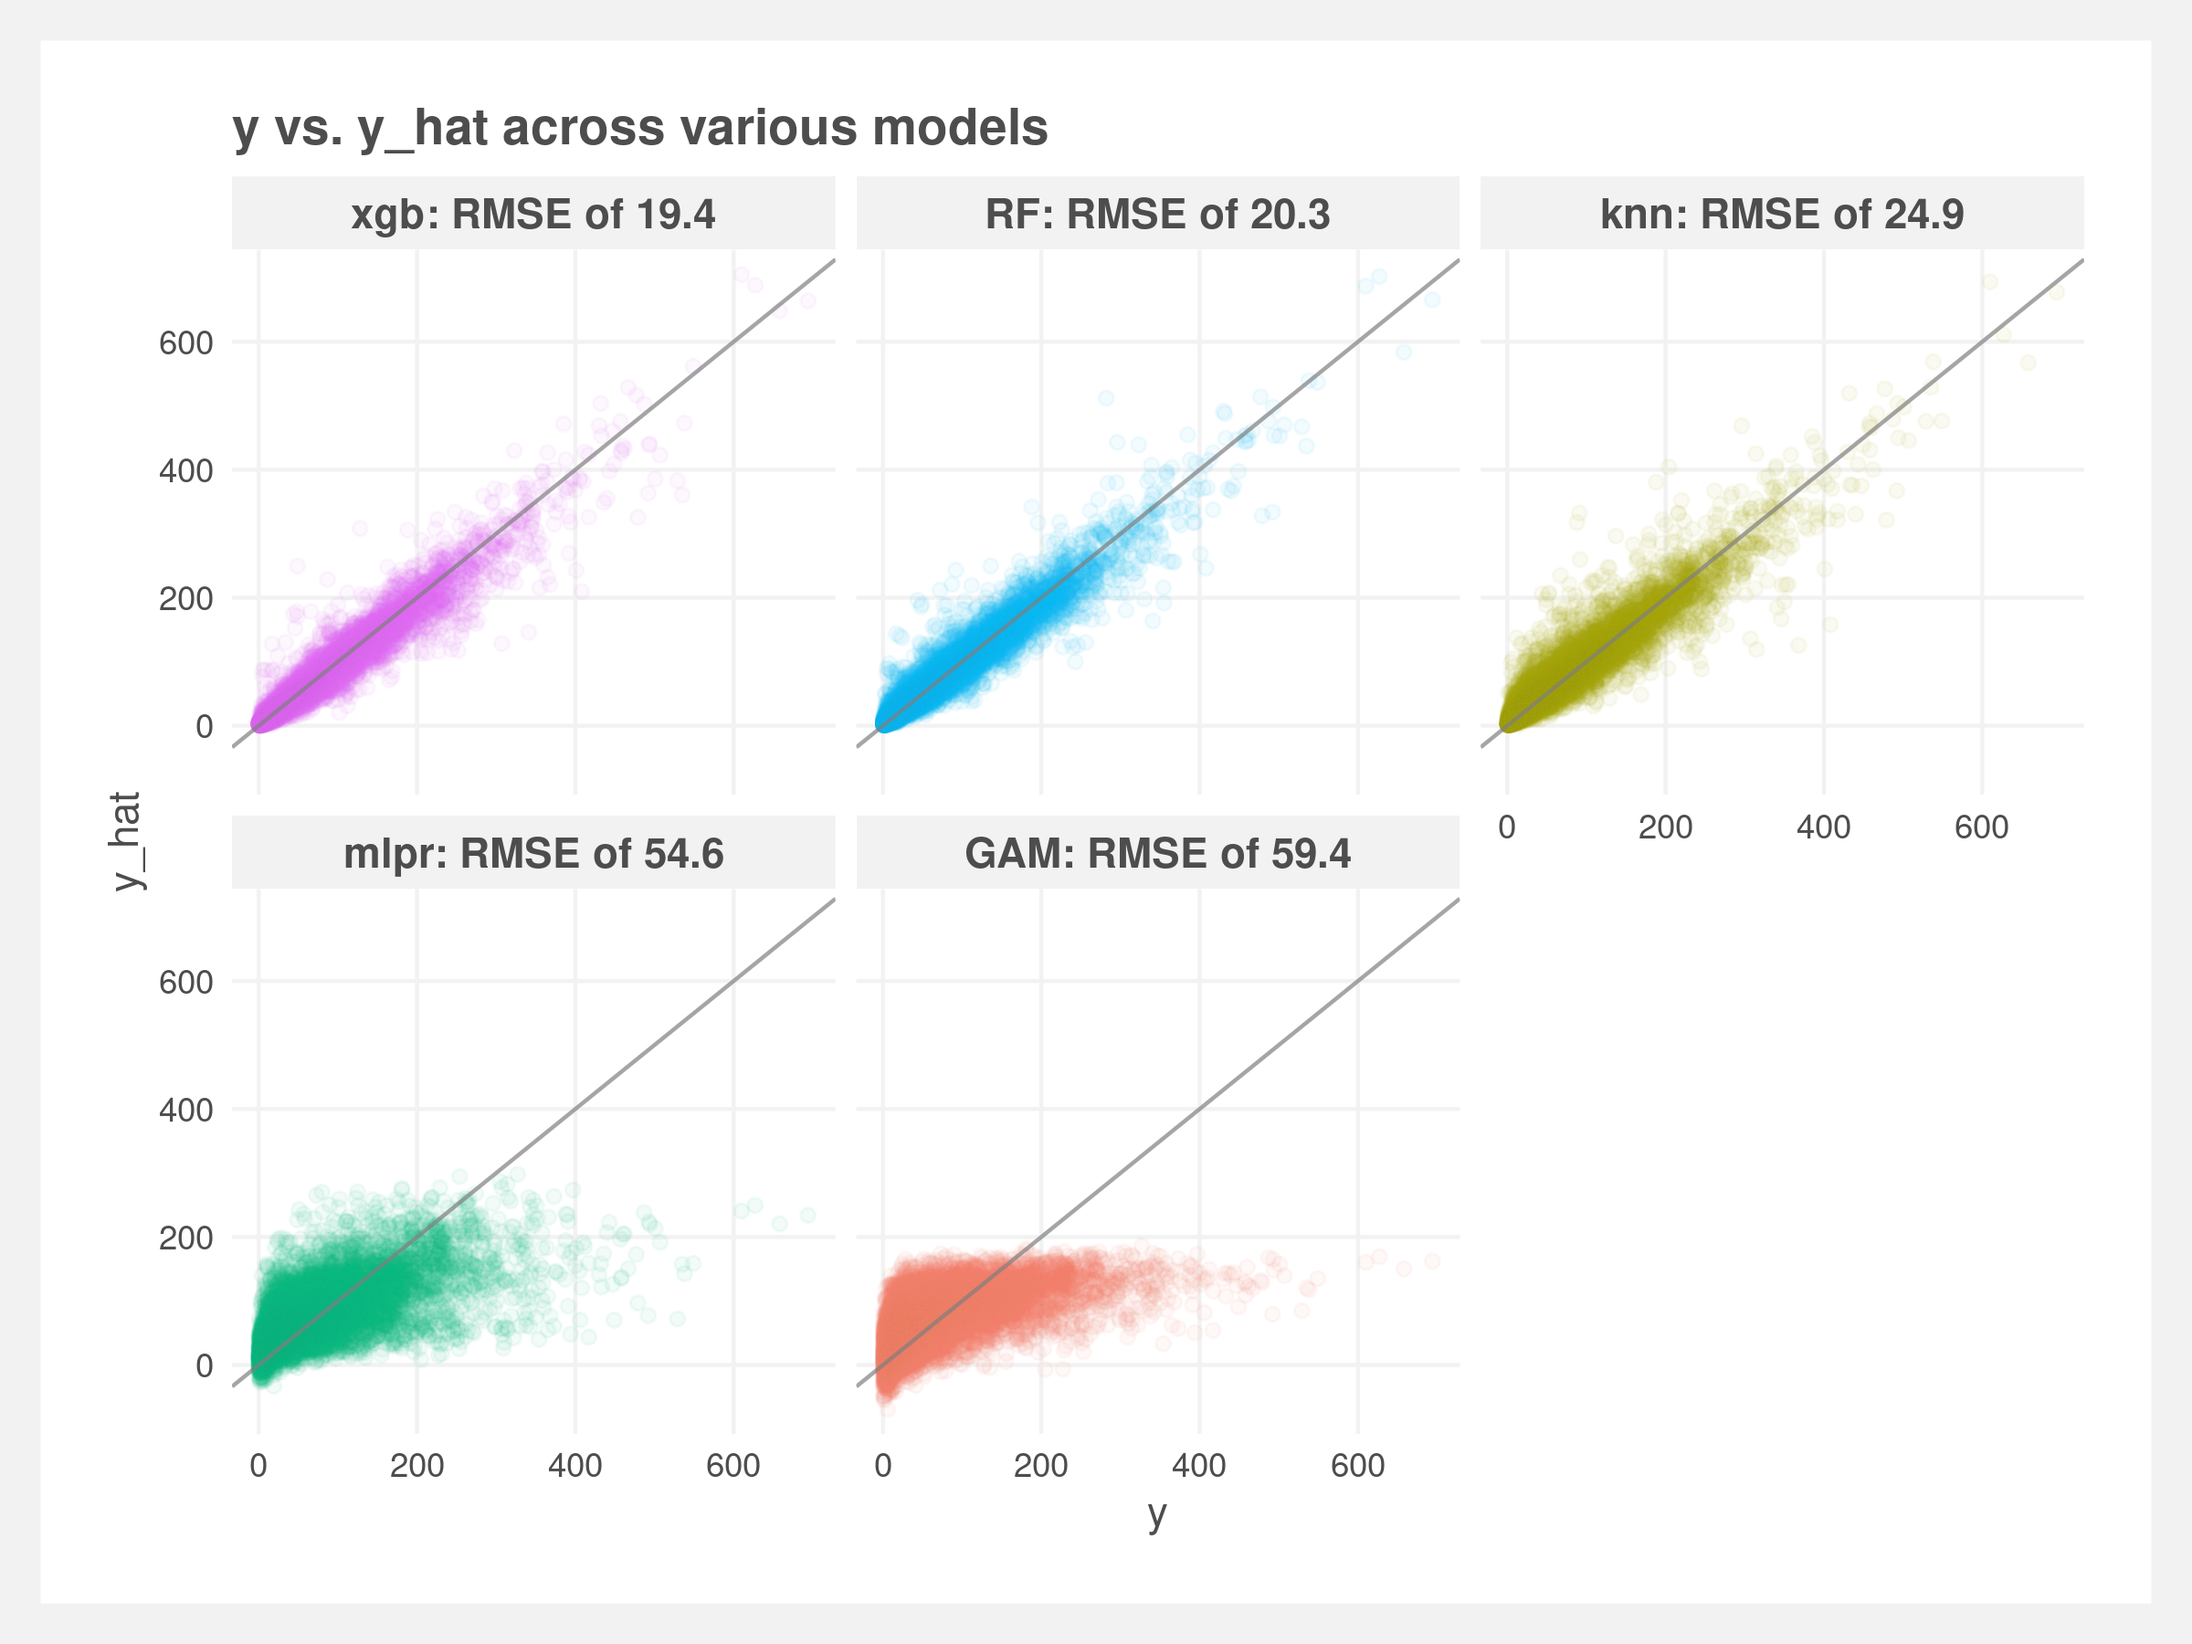
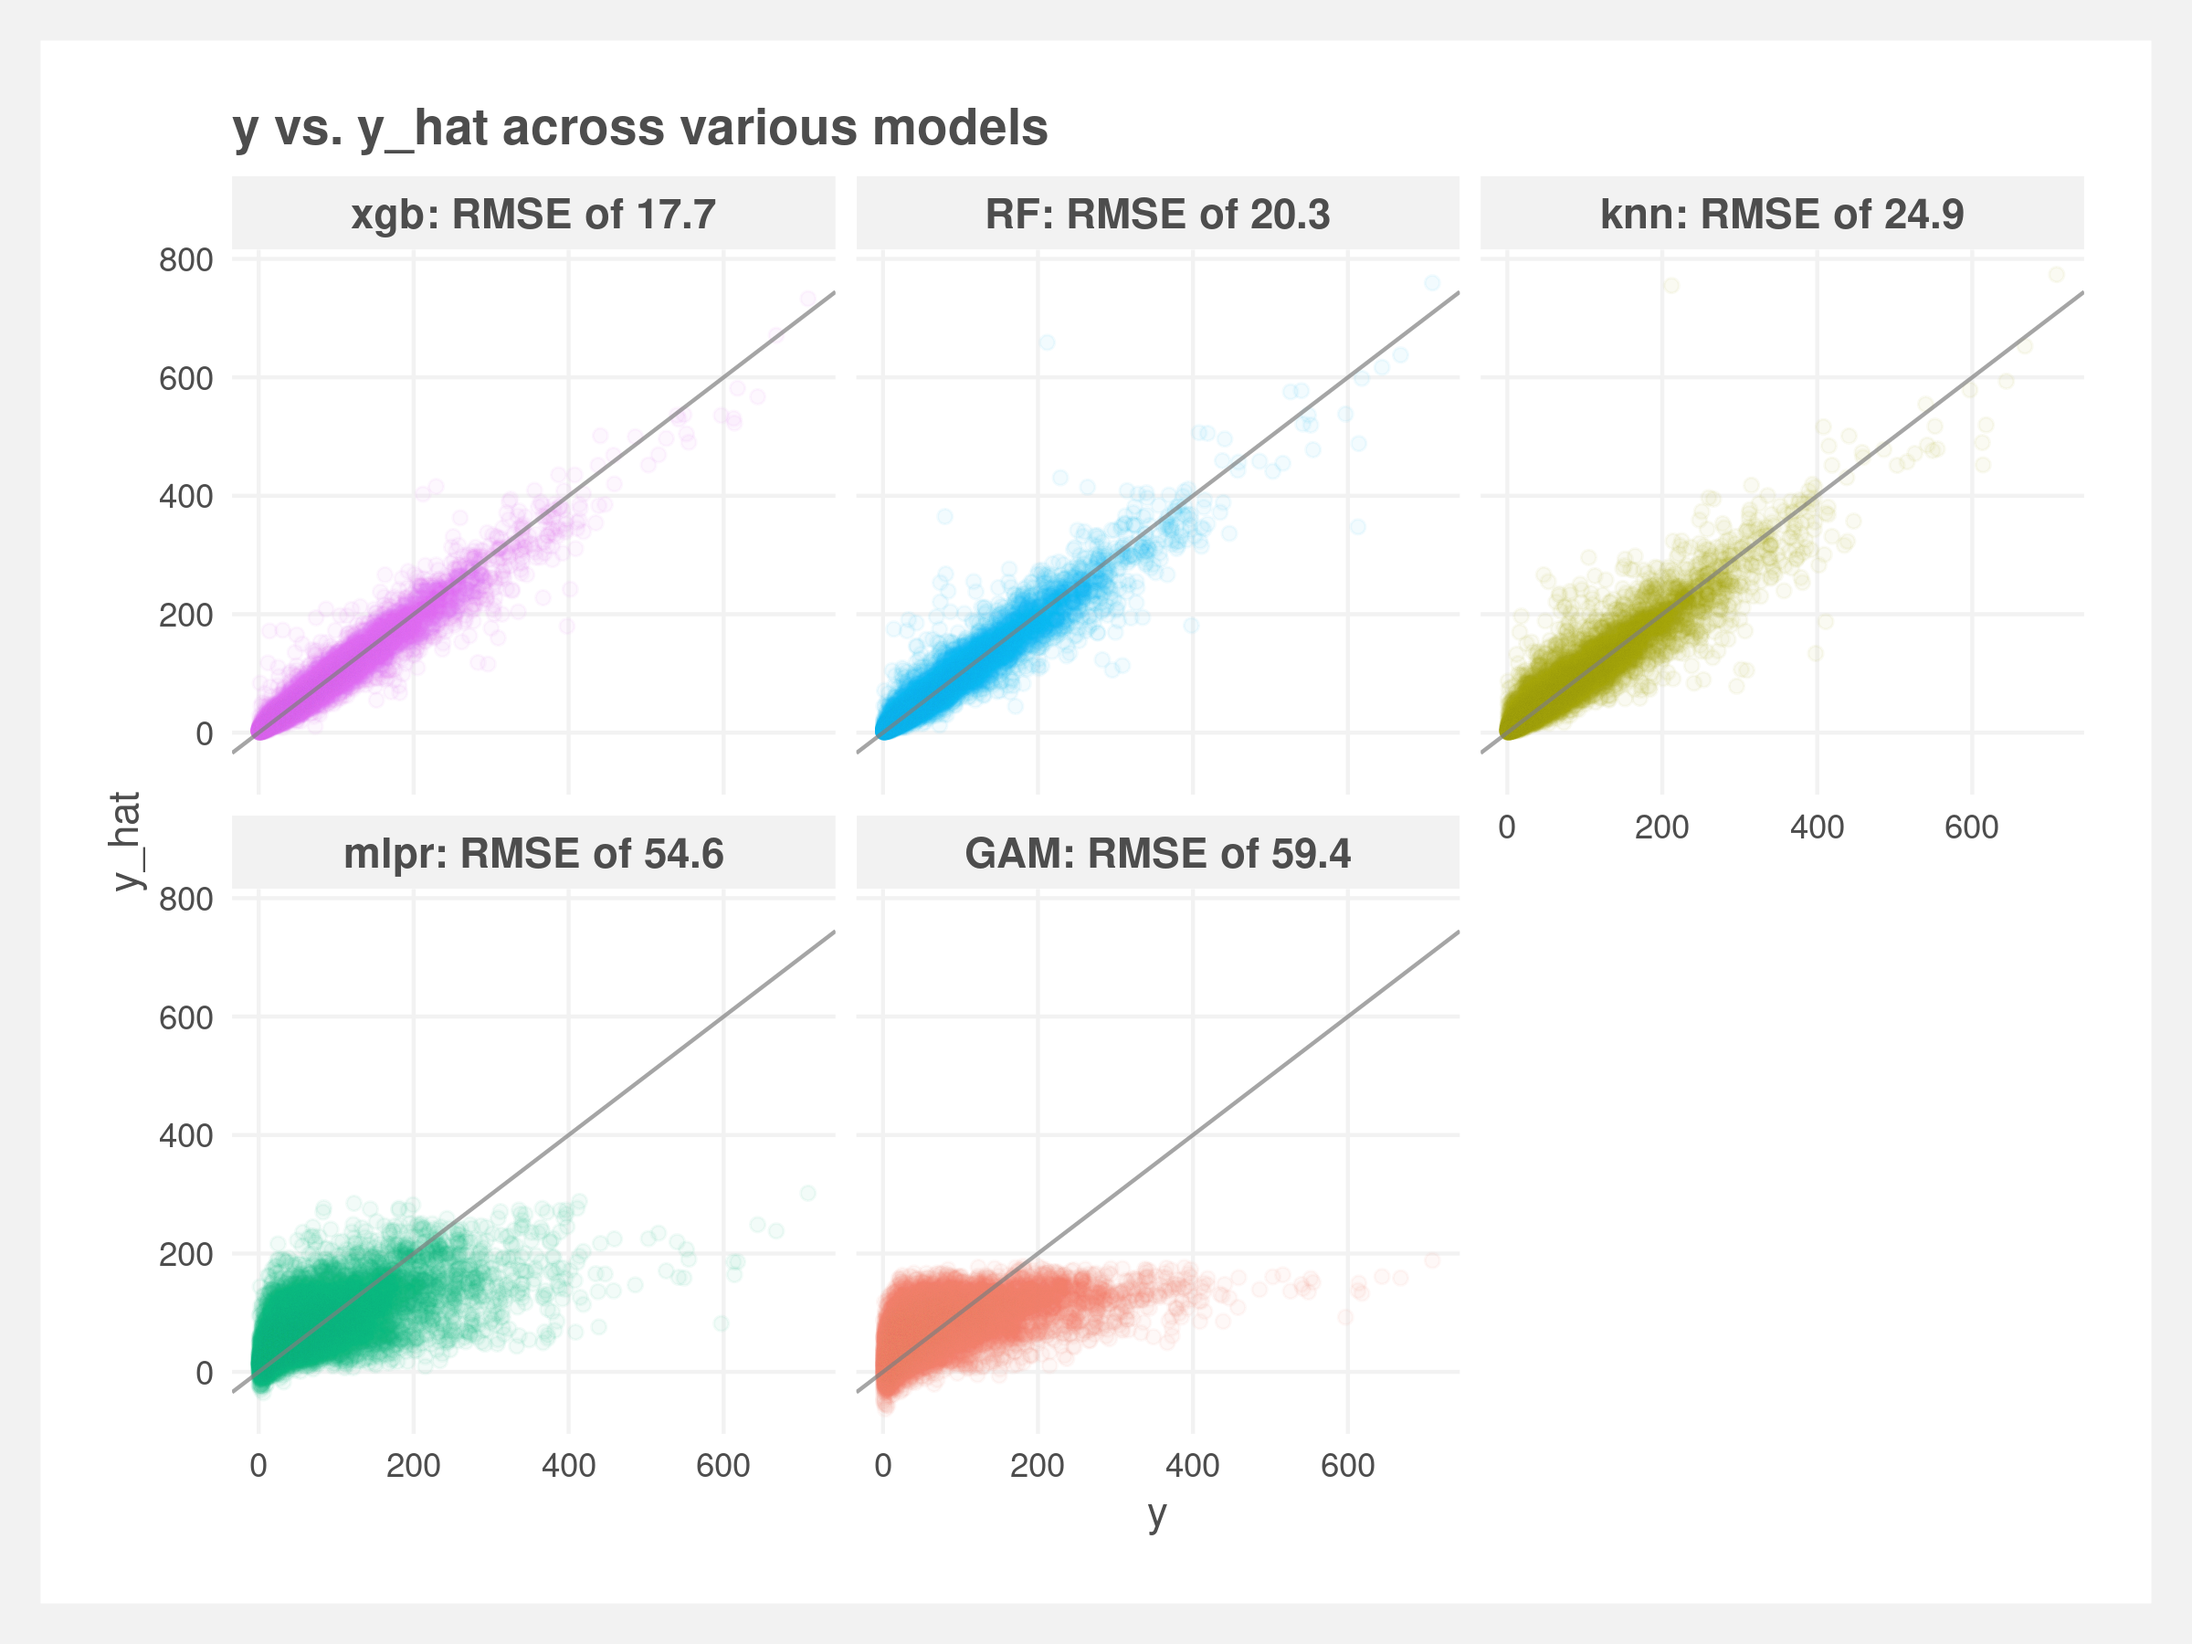
tuned xgb and tested dummying station

diff --git a/Analyses/model.py b/Analyses/model.py
@@ -68,11 +68,11 @@ y = station_trips['Trip_count']
 #selected_features = ['Station', 'is_workday', 'Precipitation', 'Temp_max', 'Temp_min']
 
 # Joe's selected features
-selected_features = ['Dist_to_subway', 'Station', 'Month', 'is_workday', 'Precipitation', 'Temp_max', 'Temp_min', 'Wind_speed_max_5sec']
+selected_features = ['Dist_to_subway', 'Station', "Year", 'Month', 'is_workday', 'Precipitation', 'Temp_max', 'Temp_min', 'Wind_speed_max_5sec']
 X = station_trips[selected_features]
 
-# dummy code Month
-X = pd.get_dummies(X, columns=['Month'])
+# dummy code Year and Month
+X = pd.get_dummies(X, columns=['Year', 'Month'])
 
 # scale the data
 #X.iloc[:, 2:5] = preprocessing.scale(X.iloc[:, 2:5])
@@ -139,8 +139,14 @@ pred_results['y_RF'] = y_pred
 
 ##### xgboost
 # Instantiate the XGBRegressor
-xg_reg = xgb.XGBRegressor(objective='count:poisson', n_estimators=100, seed=44, max_depth=20, n_jobs=-1)
+xg_reg = xgb.XGBRegressor(objective='count:poisson', n_estimators=100, seed=44, max_depth=15, n_jobs=-1)
 
+#RMSE ~ 22 @ max_depth=10
+#RMSE ~ 18 @ max_depth=15
+#RMSE ~ 19 @ max_depth=20
+#RMSE ~ 22 @ max_depth=25
+
+## old
 #RMSE ~ 38 @ max_depth=3
 #RMSE ~ 27 @ max_depth=10
 #RMSE ~ 24 @ max_depth=20
@@ -248,3 +254,36 @@ pred_results['y_mlpr'] = mlpr_preds
 
 # write out dataframe
 pred_results.to_csv("Predictions/preds.csv", index=False)
+
+
+
+#### TEST: dummy code station by first sampling (otherwise memory problems)
+samp = station_trips.sample(n=100000)
+X = samp.drop(["Trip_count", 'Date'], axis=1)
+y = samp['Trip_count']
+
+# Joe's selected features
+selected_features = ['Dist_to_subway', 'Station', "Year", 'Month', 'is_workday', 'Precipitation', 'Temp_max', 'Temp_min', 'Wind_speed_max_5sec']
+X = samp[selected_features]
+
+# dummy code Year, Month, and Station
+X = pd.get_dummies(X, columns=['Year', 'Month', 'Station'])
+
+# scale the data
+X.loc[:, ['Dist_to_subway', 'Precipitation', 'Temp_max', 'Temp_min', 'Wind_speed_max_5sec']] = preprocessing.scale(X.loc[:, ['Dist_to_subway', 'Precipitation', 'Temp_max', 'Temp_min', 'Wind_speed_max_5sec']])
+
+# split the data
+X_train, X_test, y_train, y_test = train_test_split(X, y, test_size=0.2, random_state=44)
+
+# Instantiate rf
+rf = RandomForestRegressor(n_estimators=100, random_state=44, n_jobs=-1)
+
+# Fit rf to the training set
+rf.fit(X_train, y_train)
+
+# Predict the trip count
+y_pred = rf.predict(X_test)
+
+# Evaluate the test set RMSE
+MSE(y_test, y_pred)**(1/2)
+# RMSE is ~30
